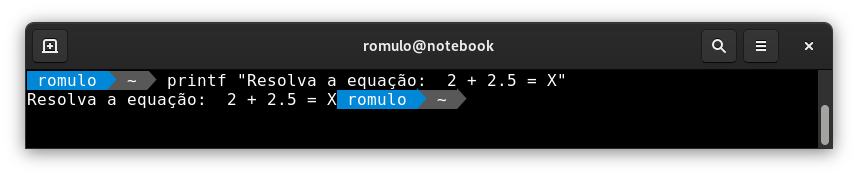
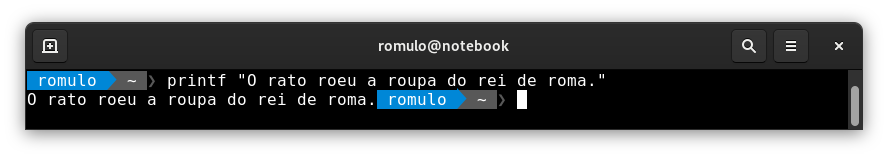
Update printf post

diff --git a/content/printf-syntax.md b/content/printf-syntax.md
@@ -19,10 +19,10 @@ author = "Rômulo Pinheiro"
 
 # Introdução
 ```bash
-$ printf format [argument]...
+printf format [argument]...
 ```
 
-O comando printf do bash opera de forma parecida com a função printf em C/C++. Ele recebe como primeiro parametro _format_, uma string entre aspas duplas "como essa aqui" e pode receber alguns argumentos para auxiliar na formatação. O comando também aceita sequências de escape. você pode encontrar uma lista de exemplos logo abaixo da tabela com as sequências de escapes.  
+O comando printf do bash opera de forma parecida com a função printf em C/C++. Ele recebe como primeiro parametro _format_, uma string entre aspas duplas "como essa aqui" e pode receber alguns argumentos para auxiliar na formatação, como sequências de escape e referências para variáveis. 
 
 # Sequência de escape
 |caracter|uso|
@@ -47,22 +47,29 @@ O comando printf do bash opera de forma parecida com a função printf em C/C++.
 |\%q | argumento é imprimido em formato que pode ser reusado como input do shell com a sintaxe $''
 
 # Strings
-```bash 
-$ printf "Resolva a equação:  2 + 2.5 = X"  
+A forma mais direta de se usar o "print formated" é chamando o comando seguido de uma string entre aspas duplas. Assim ele vai imprimir na tela exatamente o que for pedido, tente aí no seu terminal e veja o que acontece.  
+```bash
+$ printf "O rato roeu a roupa do rei de roma."
 ```
+
 <img src=/images/printf-output1.png title="Em nenhum momento pedimos ao printf que imprimisse uma nova linha"></img>
 
-```bash
-$ printf "Resolva a equação:  2 + 2.5 = X\n"
+Ele imprimiu a frase no terminal sem quebra de linha (nova linha). Pode não aparecer agora, mas isso nos dá mais controle sobre o comportamento dele. Vamos consertar isso com a ajuda da tabela acima.
 
-```
 <img src=/images/printf-output2.png title="uma string com uma quebra de linha no último caractere"></img>
 
 # Números inteiros
+Você pode colocar um espaço entre _%_ e _d_ em _%d_ para imprimir os números inteiros positivos com um espaço na frente. Isso ajuda na criação de uma coluna com a formatação mais homogênea, observe o exemplo feito das duas maneiras.  
+```bash
+$ printf "% d\n%d\n% d\n" 10 -10 10
+```
+
+<img src="/images/printf-output8.png" title=""></img>
 
 # Números decimais
+Quando se trata de números devemos especificar a quantidade de casas decimais, caso contrário recebe por padrão o valor seis. O zero à esquerda pode ser omitido sem prejuízo.
 ```bash
-$ printf "Resolva a equação:  R$%.2f + R$%.2f = R$ X\n" $decimal1 $decimal2
+$ printf "Preço - R$%.2f\nLitro - %.3f ml\nTemperatura - %.1f ºC\nPadrão - %f\n" 5.55 5.55 .55 0.55
 ```
 <img src=/images/printf-output7.png></img>
 
